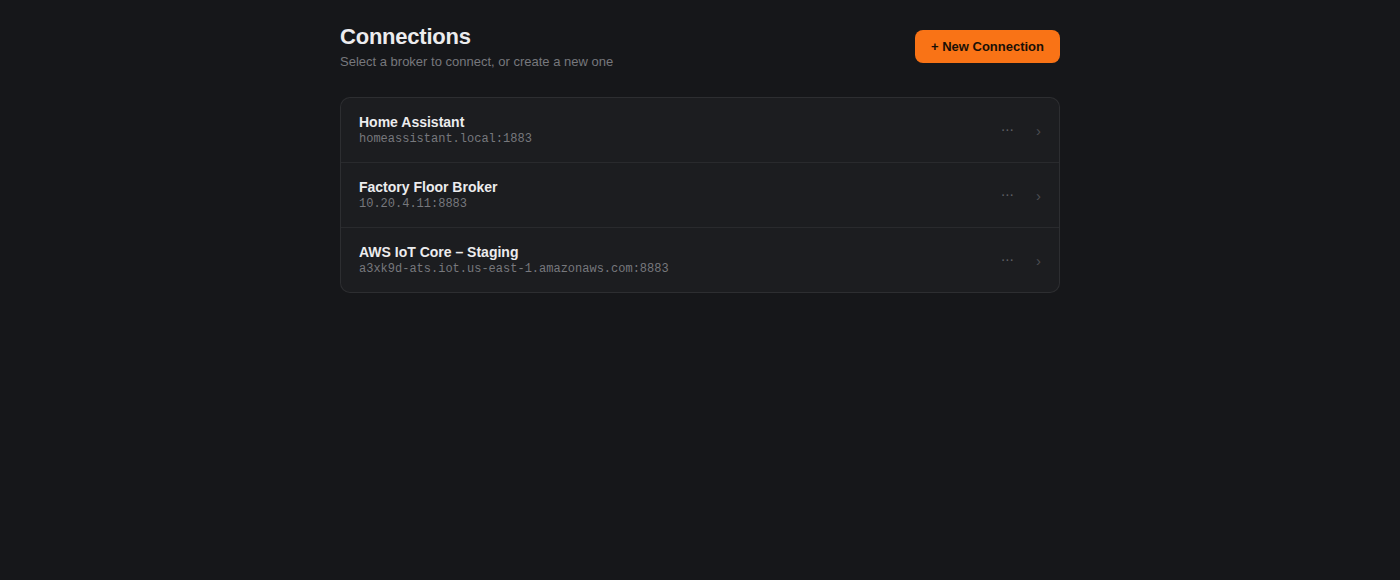
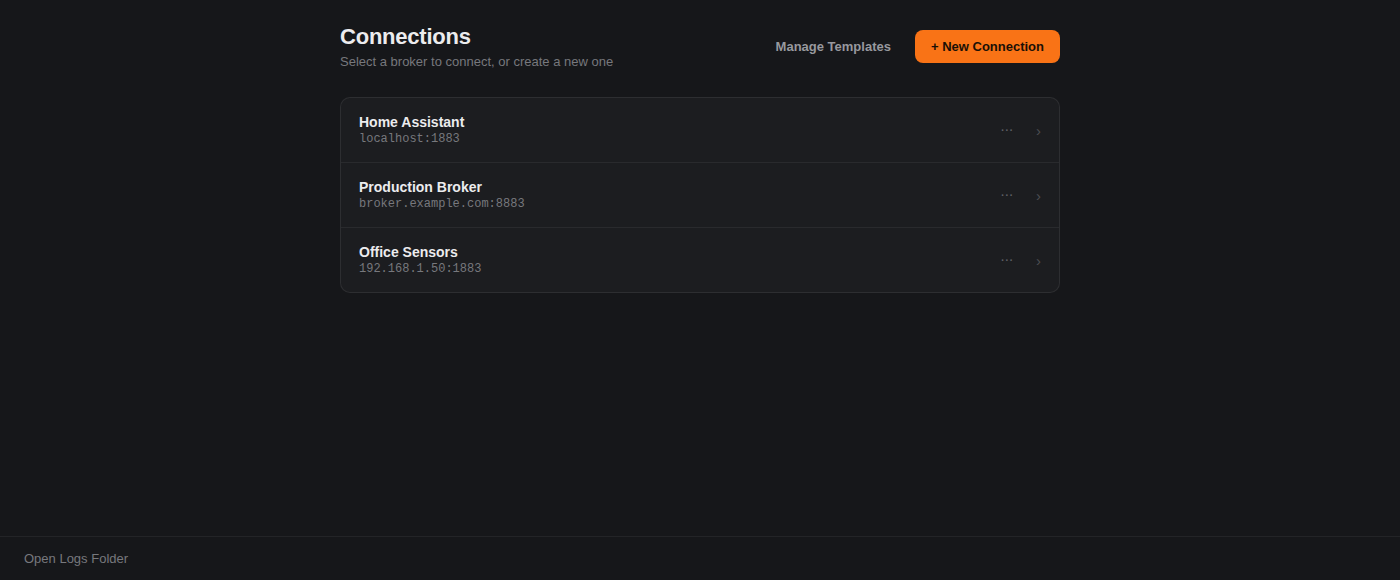
updated readme

diff --git a/src/app/pages/templates-management/template-form/template-form.html b/src/app/pages/templates-management/template-form/template-form.html
@@ -40,7 +40,7 @@
 
     <div class="field-row">
       <div class="field">
-        <label>Format</label>
+        <span class="field-label">Format</span>
         <div class="segmented">
           @for (opt of formatOptions; track opt) {
             <div
@@ -58,7 +58,7 @@
       </div>
 
       <div class="field">
-        <label>QoS</label>
+        <span class="field-label">QoS</span>
         <app-qos-select [(value)]="qos" />
       </div>
 

diff --git a/src/app/pages/templates-management/template-form/template-form.css b/src/app/pages/templates-management/template-form/template-form.css
@@ -9,11 +9,16 @@
   flex-direction: column;
 }
 
-.field label {
+.field label,
+.field-label {
   font-size: 12px;
   font-weight: 600;
   color: var(--color-text-secondary);
   margin-bottom: var(--space-2);
+}
+
+.field-label {
+  display: block;
 }
 
 .field textarea {

diff --git a/README.md b/README.md
@@ -33,7 +33,7 @@ It's built with [Tauri](https://tauri.app) (a Rust backend, SQLite for local sto
 <table align="center">
   <tr>
     <td align="center" width="50%">
-      <img src="docs/screenshots/connections.png" width="380" alt="Connections list showing three saved broker connections">
+      <img src="docs/screenshots/connections.png" width="380" alt="Connections list showing three saved broker connections, with a Manage Templates button in the header">
       <br><em>Saved connections</em>
     </td>
     <td align="center" width="50%">
@@ -43,12 +43,25 @@ It's built with [Tauri](https://tauri.app) (a Rust backend, SQLite for local sto
   </tr>
 </table>
 
+<p align="center">
+  <img src="docs/screenshots/templates-management.png" width="820" alt="Templates page listing saved message templates grouped into Sensors and Actuators collections, each showing topic, description, formatted JSON or raw payload, QoS, retain and format">
+  <br>
+  <em>Templates — every saved message in one place, with collections, search, and full edit/delete.</em>
+</p>
+
+<p align="center">
+  <img src="docs/screenshots/save-template-modal.png" width="820" alt="Save as Template dialog over the Broker Workspace, showing a read-only preview of the topic, QoS and pretty-printed JSON payload, plus editable name, description and collection fields">
+  <br>
+  <em>Save as Template — grab the current publish draft into your library, optionally into a collection.</em>
+</p>
+
 ### How to use it
 
 1. **Add a broker** — `+ New Connection`, fill in host/port (and TLS or credentials if the broker needs them), then **Save & Connect** (or **Test Connection** first to sanity-check it).
 2. **Subscribe** to a topic filter from the sidebar — subscriptions persist and are replayed automatically next time you connect.
 3. **Browse** the live topic tree as messages arrive; click any topic to see its full session history (payload, QoS, retained flag, time received).
 4. **Publish** a message from the panel on the right — topic is pre-filled from whatever you've selected in the tree, payload as JSON or raw text, pick a QoS, hit Publish.
+5. **Save frequently-used payloads as templates** — from the publish panel, "Save as Template" (broker-independent, optionally grouped into a collection) or "Load Template" to pull one back in. Manage the full set — edit any field, delete, or reorganize collections — from **Manage Templates** on the Connections page.
 
 ## Download
 
@@ -62,7 +75,6 @@ No Windows or macOS build yet — see the roadmap below.
 
 Rough order of what's next, no promises on timing:
 
-- [ ] A message favorites feature — save frequently-used payloads for quick re-publishing, independent of any particular broker or topic
 - [ ] Client certificate support for brokers that require mutual TLS
 - [ ] A Windows release
 
